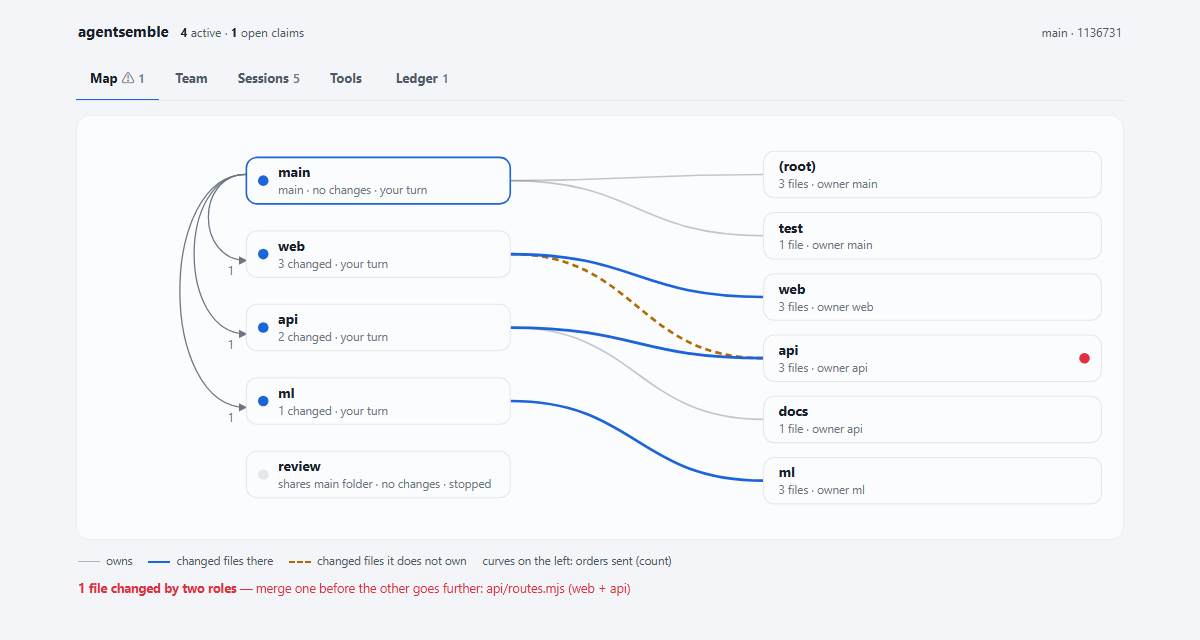
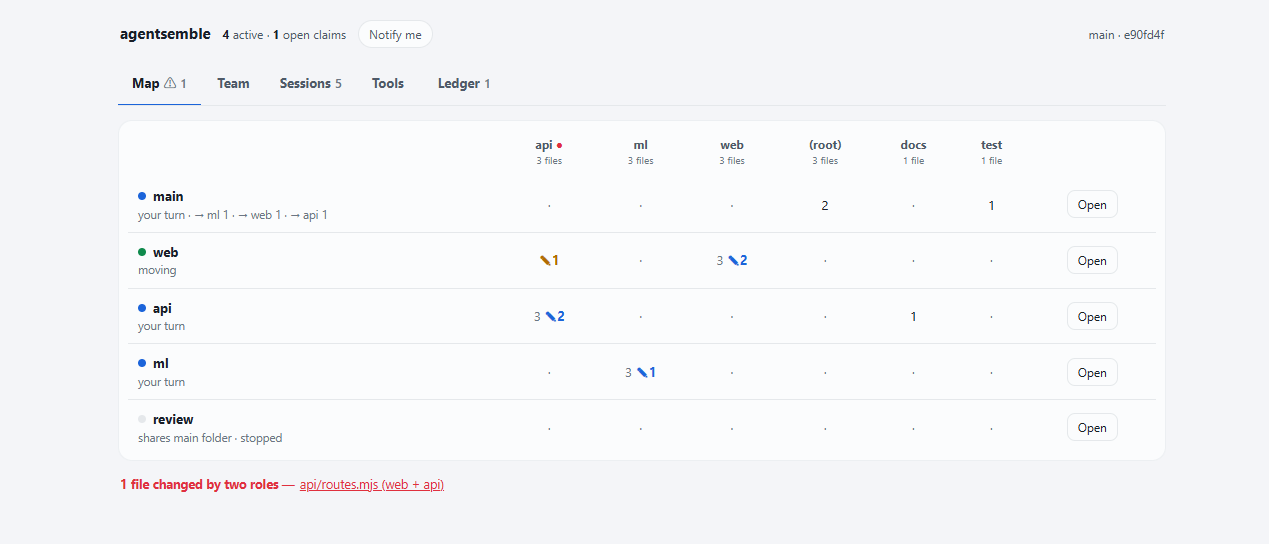
feat: Map is a grid (a row per role, a column per area) instead of tangled lines; Open beside a role brings its terminal forward or reopens it with claude --resume; the board caches itself for 2 s and the page never piles up requests

diff --git a/bin/board.html b/bin/board.html
@@ -156,23 +156,28 @@
   @media (prefers-reduced-motion: no-preference) { .win { transition: box-shadow .15s; } }
 
   /* Map: roles on the left, the repo's areas on the right, live lines between them. */
-  .map { display: block; width: 100%; height: auto; }
-  .map text { fill: var(--text); font-size: 13px; }
-  .map .sub { fill: var(--faint); font-size: 11px; }
-  .map .box { fill: var(--surface); stroke: var(--hair); stroke-width: 1; }
-  .map .box.main { stroke: var(--calm); stroke-width: 1.5; }
-  .map .l-own { fill: none; stroke: var(--faint); stroke-opacity: .4; stroke-width: 1.5; }
-  .map .l-work { fill: none; stroke: var(--calm); stroke-width: 2.5; }
-  .map .l-stray { fill: none; stroke: var(--warn); stroke-width: 2.5; stroke-dasharray: 6 4; }
-  .map .l-talk { fill: none; stroke: var(--faint); stroke-width: 1.2; }
-  .map .dot.moving { fill: var(--good); } .map .dot.busy { fill: var(--warn); }
-  .map .dot.waiting { fill: var(--calm); } .map .dot.stopped, .map .dot.none { fill: var(--hair); }
-  .map .clash { fill: var(--live); } .map .new { fill: var(--me); font-size: 11px; font-weight: 650; }
-  .map .node { cursor: pointer; } .map .node:hover rect, .map .node:focus-visible rect { stroke: var(--calm); stroke-width: 2; } .map .node:focus { outline: none; }
-  .legend { display: flex; flex-wrap: wrap; gap: 6px 16px; font-size: 11.5px; color: var(--sub); margin: 8px 2px 0; }
-  .legend i { display: inline-block; width: 22px; height: 0; vertical-align: middle; margin-right: 6px; border-top: 2.5px solid var(--calm); }
-  .legend i.stray { border-top: 2.5px dashed var(--warn); } .legend i.own { border-top: 1.5px solid var(--faint); opacity: .5; }
+  .grid { width: 100%; border-collapse: collapse; font-size: 13px; font-variant-numeric: tabular-nums; }
+  .grid th, .grid td { padding: 9px 10px; border-bottom: 1px solid var(--hair); text-align: center; white-space: nowrap; }
+  .grid thead th { font-size: 12px; font-weight: 650; color: var(--sub); vertical-align: bottom; }
+  .grid thead th small { display: block; font-weight: 400; color: var(--faint); }
+  .grid th.who { text-align: left; font-weight: 650; color: var(--text); }
+  .grid th.who small { display: block; font-weight: 400; color: var(--faint); font-size: 11.5px; }
+  .grid th.who[data-open] { cursor: pointer; } .grid th.who[data-open]:hover { color: var(--calm); }
+  .grid tr:last-child > * { border-bottom: 0; }
+  .grid td { color: var(--faint); }
+  .grid td.own { color: var(--text); }
+  .grid td.work b { color: var(--calm); }
+  .grid td.stray b { color: var(--warn); }
+  .grid td.work, .grid td.stray { cursor: pointer; }
+  .grid .dot { display: inline-block; width: 8px; height: 8px; border-radius: 50%; margin-right: 7px; background: var(--hair); vertical-align: 1px; }
+  .grid .dot.moving { background: var(--good); } .grid .dot.busy { background: var(--warn); } .grid .dot.waiting { background: var(--calm); }
+  .grid .clash { color: var(--live); }
+  .grid .new { color: var(--me); font-size: 11px; font-weight: 650; margin-left: 4px; }
+  .grid .open { appearance: none; border: 1px solid var(--hair); background: var(--surface); color: var(--text); border-radius: 8px; padding: 4px 10px; font: inherit; font-size: 12px; cursor: pointer; }
+  .grid .open:hover { border-color: var(--calm); }
+  .grid-wrap { overflow-x: auto; }
   .clashes { color: var(--live); font-size: 12.5px; margin: 10px 2px 0; }
+  .toast { position: fixed; bottom: 18px; left: 50%; transform: translateX(-50%); background: var(--text); color: var(--page); padding: 9px 14px; border-radius: 10px; font-size: 13px; z-index: 50; max-width: calc(100% - 32px); }
 </style>
 
 <div class="wrap">
@@ -289,67 +294,38 @@ function card(s, now, isMain) {
     + (s.asked ? `<div class="asked"><i>asked</i>${esc(cut(s.asked, 90))}</div>` : '')
     + (steps ? `<div class="flow">${steps}</div>` : '')
     + `<div class="foot"><span>${esc(s.branch ?? '')}</span>`
-    + `<span class="copy" role="button" tabindex="0" data-copy="${esc(resumeCmd(s))}">copy resume</span></div></button>`;
+    + `<span><span class="copy" role="button" tabindex="0" data-win="${esc(s.id)}">open window</span> <span class="copy" role="button" tabindex="0" data-copy="${esc(resumeCmd(s))}">copy resume</span></span></div></button>`;
 }
 
-// The live architecture. Left: roles (dot = what their window is doing). Right: the repo's
-// top-level areas. Grey = owns it, blue = has changed files there, dashed orange = changed files
-// in an area it does not own. Curves on the far left = orders sent between roles.
+// The live architecture, as a grid: a row per role, a column per top-level area. A number is how
+// many files there the role owns; blue ✎ is files it changed now, orange ✎ is changes to files it
+// does not own. Click a role to read its conversation, "Open" to bring its terminal up.
 const RANK = { moving: 3, busy: 2, waiting: 1, stopped: 0 };
 function mapHtml(d) {
   const m = d.map;
   if (!m || !m.areas.length) return '<div class="card"><div class="empty">No tracked files yet.</div></div>';
   const phase = name => d.sessions.filter(s => s.role === name)
     .reduce((best, s) => (RANK[s.phase] ?? -1) > (RANK[best] ?? -1) ? s.phase : best, 'none');
-  const R = m.roles, row = 58, top = 16;
-  const ri0 = Object.fromEntries(R.map((r, i) => [r.name, i]));
-  // Put each area across from its owner so lines run straight; unowned areas go last.
-  const firstOwner = a => Math.min(...a.owners.map(o => ri0[o] ?? 99), 99);
-  const A = [...m.areas].sort((a, b) => firstOwner(a) - firstOwner(b));
-  const H = Math.max(R.length, A.length) * row + top * 2;
-  const yR = i => top + (i + 0.5) * (H - top * 2) / R.length;
-  const yA = i => top + (i + 0.5) * (H - top * 2) / A.length;
-  const RX = 150, RW = 250, AX = 640, AW = 320;
-  const ri = Object.fromEntries(R.map((r, i) => [r.name, i]));
-  const curve = (y1, y2) => `M${RX + RW},${y1} C${(RX + RW + AX) / 2},${y1} ${(RX + RW + AX) / 2},${y2} ${AX},${y2}`;
-  let lines = '', talk = '', boxes = '';
-  A.forEach((a, j) => {
-    for (const o of a.owners) if (o in ri) lines += `<path class="l-own" d="${curve(yR(ri[o]), yA(j))}"/>`;
-  });
-  R.forEach((r, i) => r.areas.forEach(name => {
-    const j = A.findIndex(a => a.name === name);
-    if (j >= 0) lines += `<path class="${r.stray.includes(name) ? 'l-stray' : 'l-work'}" d="${curve(yR(i), yA(j))}"><title>${esc(r.name)} changed files in ${esc(name)}${r.stray.includes(name) ? ' it does not own: ' + esc((r.strayFiles ?? []).filter(f => (f.includes('/') ? f.slice(0, f.indexOf('/')) : '(root)') === name).join(', ')) : ''}</title></path>`;
-  }));
-  for (const e of m.edges) {
-    if (!(e.from in ri) || !(e.to in ri)) continue;
-    const y1 = yR(ri[e.from]), y2 = yR(ri[e.to]), bend = RX - 30 - Math.abs(ri[e.from] - ri[e.to]) * 18;
-    talk += `<path class="l-talk" marker-end="url(#arr)" d="M${RX},${y1 - 6} C${bend},${y1 - 6} ${bend},${y2 + 6} ${RX},${y2 + 6}"><title>${esc(e.from)} → ${esc(e.to)}: ${e.n} order${e.n > 1 ? 's' : ''}</title></path>`
-      + `<text class="sub" x="${RX - 12}" y="${y2 + 20}" text-anchor="end">${e.n}</text>`;
-  }
-  R.forEach((r, i) => {
-    const y = yR(i), p = phase(r.name);
-    // Click a role to open its latest window's conversation in the side drawer.
-    const last = d.sessions.filter(s => s.role === r.name).sort((a, b) => a.idleMs - b.idleMs)[0];
-    boxes += `<g${last ? ` class="node" data-open="${esc(last.id)}" role="button" tabindex="0" aria-label="Open ${esc(r.name)} conversation"` : ''}><rect class="box${r.isMain ? ' main' : ''}" x="${RX}" y="${y - 22}" width="${RW}" height="44" rx="10"/>`
-      + `<circle class="dot ${esc(p)}" cx="${RX + 16}" cy="${y}" r="5"><title>${esc(PHASE[p] ?? 'no window')}</title></circle>`
-      + `<text x="${RX + 30}" y="${y - 3}" font-weight="650">${esc(r.name)}${d.sessions.some(s => s.role === r.name && unread(s)) ? ' <tspan class="new">● new</tspan>' : ''}</text>`
-      + `<text class="sub" x="${RX + 30}" y="${y + 13}">${esc([r.isMain ? 'main' : r.shared ? 'shares main folder' : '', r.touched ? r.touched + ' changed' : 'no changes', PHASE[p] ?? ''].filter(Boolean).join(' · '))}</text></g>`;
-  });
-  A.forEach((a, j) => {
-    const y = yA(j), clash = m.clashes.some(c => c.file.startsWith(a.name + '/') || (a.name === '(root)' && !c.file.includes('/')));
-    boxes += `<g><rect class="box" x="${AX}" y="${y - 22}" width="${AW}" height="44" rx="10"/>`
-      + (clash ? `<circle class="clash" cx="${AX + AW - 16}" cy="${y}" r="5"><title>two roles changed the same file here</title></circle>` : '')
-      + `<text x="${AX + 14}" y="${y - 3}" font-weight="650">${esc(cut(a.name, 30))}</text>`
-      + `<text class="sub" x="${AX + 14}" y="${y + 13}">${a.files} file${a.files === 1 ? '' : 's'}${a.owners.length ? ' · owner ' + esc(a.owners.map(o => a.owners.length > 1 && a.own?.[o] ? `${o} ${a.own[o]}` : o).join(', ')) : ' · no owner'}</text></g>`;
-  });
-  const svg = `<svg class="map" viewBox="0 0 ${AX + AW + 10} ${H}" role="img" aria-label="Roles, the areas of the repo they own and change, and orders between them">`
-    + `<defs><marker id="arr" viewBox="0 0 8 8" refX="7" refY="4" markerWidth="7" markerHeight="7" orient="auto-start-reverse"><path d="M0,0 L8,4 L0,8 z" fill="currentColor" style="color:var(--faint)"/></marker></defs>`
-    + lines + talk + boxes + '</svg>';
-  return `<div class="card" style="padding:12px">${svg}</div>`
-    + '<div class="legend"><span><i class="own"></i>owns</span><span><i></i>changed files there</span><span><i class="stray"></i>changed files it does not own</span><span>curves on the left: orders sent (count)</span></div>'
-    + (m.clashes.length ? `<div class="clashes"><b>${m.clashes.length} file${m.clashes.length > 1 ? 's' : ''} changed by two roles</b> — merge one before the other goes further: `
-      + m.clashes.map((c, i) => `<button type="button" data-clash="${i}">${esc(c.file)} (${esc(c.who.join(' + '))})</button>`).join(' · ') + ' — click to compare</div>' : '')
-    + R.filter(r => r.strayFiles?.length).map(r => `<div class="clashes"><b>${esc(r.name)} changed files it does not own</b> — ${esc(r.strayFiles.slice(0, 8).join(', '))}${r.strayFiles.length > 8 ? ` +${r.strayFiles.length - 8}` : ''}. Hand them to their owner or add them to its <code>owns</code>.</div>`).join('');
+  const A = m.areas;
+  const clashIn = a => m.clashes.some(c => c.file.startsWith(a + '/') || (a === '(root)' && !c.file.includes('/')));
+  const head = '<tr><th></th>' + A.map(a => `<th>${esc(cut(a.name, 18))}${clashIn(a.name) ? ' <span class="clash" title="two roles changed the same file here">●</span>' : ''}<small>${a.files} file${a.files === 1 ? "" : "s"}</small></th>`).join('') + '<th></th></tr>';
+  const rows = m.roles.map(r => {
+    const p = phase(r.name);
+    const last = d.sessions.filter(s => s.role === r.name).sort((x, y) => x.idleMs - y.idleMs)[0];
+    const orders = m.edges.filter(e => e.from === r.name).map(e => `→ ${e.to} ${e.n}`).join(' · ');
+    const sub = [r.shared ? 'shares main folder' : '', PHASE[p] ?? 'no window', orders].filter(Boolean).join(' · ');
+    const cells = A.map(a => {
+      const own = a.own?.[r.name] ?? 0, ch = r.changed?.[a.name] ?? 0, stray = r.stray.includes(a.name);
+      if (ch) return `<td class="${stray ? 'stray' : 'work'}" data-diff="${esc(r.name)}" title="${esc(r.name)} changed ${ch} file${ch > 1 ? 's' : ''} here${stray ? ' it does not own' : ''} — click to see">${own || ''} <b>✎${ch}</b></td>`;
+      return own ? `<td class="own">${own}</td>` : '<td>·</td>';
+    }).join('');
+    return `<tr><th class="who"${last ? ` data-open="${esc(last.id)}" role="button" tabindex="0" title="Read its conversation"` : ''}><span class="dot ${esc(p)}"></span>${esc(r.name)}`
+      + `${d.sessions.some(s => s.role === r.name && unread(s)) ? '<span class="new">● new</span>' : ''}<small>${esc(sub)}</small></th>${cells}`
+      + `<td><button type="button" class="open" data-win="${esc(last?.id ?? '')}" data-role="${esc(r.name)}" title="${last ? 'Bring its terminal to the front, or reopen it' : 'Open a new terminal for this role'}">${last ? 'Open' : 'Start'}</button></td></tr>`;
+  }).join('');
+  return `<div class="card grid-wrap" style="padding:6px 10px"><table class="grid"><thead>${head}</thead><tbody>${rows}</tbody></table></div>`
+    + (m.clashes.length ? `<div class="clashes"><b>${m.clashes.length} file${m.clashes.length > 1 ? 's' : ''} changed by two roles</b> — `
+      + m.clashes.map((c, i) => `<button type="button" data-clash="${i}">${esc(c.file)} (${esc(c.who.join(' + '))})</button>`).join(' · ') + '</div>' : '');
 }
 
 function teamHtml(d, now) {
@@ -420,7 +396,13 @@ function paint(id, html) { if (PREV[id] === html) return; PREV[id] = html; $(id)
 let FAILS = 0;
 
 let LAST = null;
+let BUSY = false;
 async function tick() {
+  if (BUSY) return;   // a slow board must not pile up requests
+  BUSY = true;
+  try { await tickOnce(); } finally { BUSY = false; }
+}
+async function tickOnce() {
   let d;
   try {
     const r = await fetch('/api/board', { cache: 'no-store' });
@@ -464,6 +446,16 @@ document.addEventListener('click', e => {
       () => { c.outerHTML = `<code class="cmd">${esc(cmd)}</code>`; });
     return;
   }
+  const o = e.target.closest('[data-win]');
+  if (o) { e.stopPropagation(); return openWindow(o.dataset.win, o.dataset.role); }
+  const df = e.target.closest('[data-diff]');
+  if (df) {
+    const last = LAST?.sessions.filter(x => x.role === df.dataset.diff).sort((x, y) => x.idleMs - y.idleMs)[0];
+    if (last) return openDrawer(last.id).then(() => showChanges(df.dataset.diff));
+    OPENER = document.activeElement; OPEN_ID = null; DROLE = df.dataset.diff;
+    $('dname').textContent = DROLE; $('dtabs').hidden = false; $('drawer').hidden = false; $('dx').focus();
+    return showChanges(DROLE);
+  }
   const k = e.target.closest('[data-clash]');
   if (k) return openClash(Number(k.dataset.clash));
   const w = e.target.closest('.win') ?? e.target.closest('[data-open]');
@@ -471,9 +463,26 @@ document.addEventListener('click', e => {
 });
 document.addEventListener('keydown', e => {
   if (e.key === 'Escape' && !$('drawer').hidden) closeDrawer();
-  if ((e.key === 'Enter' || e.key === ' ') && e.target.matches?.('[data-copy]')) { e.preventDefault(); e.target.click(); }
+  if ((e.key === 'Enter' || e.key === ' ') && e.target.matches?.('[data-copy],[data-win]')) { e.preventDefault(); e.target.click(); }
   if ((e.key === 'Enter' || e.key === ' ') && e.target.matches?.('[data-open]')) { e.preventDefault(); openDrawer(e.target.dataset.open); }
 });
+
+// Open a role's terminal on this PC: the board brings a live window forward or reopens a closed one.
+const SAY = { ok: 'Brought its window to the front', opened: 'Opened a new terminal', notfound: 'Window not found — is it still open?',
+  unnamed: 'That window has no name — run /rename <role> in it once', noname: 'That window has no name — run /rename <role> in it once',
+  unsupported: 'Opening windows needs the board running on Windows itself, not in a container — copy the resume command instead',
+  failed: 'Could not open it' };
+function toast(t) {
+  const el = document.createElement('div'); el.className = 'toast'; el.setAttribute('role', 'status'); el.textContent = t;
+  document.body.append(el); setTimeout(() => el.remove(), 4000);
+}
+async function openWindow(id, role) {
+  const q = id ? 'id=' + encodeURIComponent(id) : 'role=' + encodeURIComponent(role ?? '');
+  try {
+    const r = await fetch('/api/open?' + q, { method: 'POST' });
+    toast(r.ok ? SAY[(await r.json()).result] ?? 'Done' : 'Could not open it (' + r.status + ')');
+  } catch { toast('Board not reachable'); }
+}
 
 // Drawer: one session's conversation.
 let OPEN_ID = null, START = 0, OPENER = null;

diff --git a/README.ko.md b/README.ko.md
@@ -4,13 +4,14 @@
 
 [English](README.md)
 
-![Map 탭: 왼쪽은 역할, 오른쪽은 저장소의 영역, 그 사이를 잇는 실시간 선](docs/board-map.png)
+![Map 탭: 줄은 역할, 칸은 저장소의 영역 — 누가 무엇을 맡았고 지금 무엇을 고치는지](docs/board-map.png)
 
 판은 **팀이 일하는 동안의** 프로젝트 구조를 그립니다:
 
 - 저장소의 **어느 부분을 누가 맡았는지**, 창마다 **실제로 무엇을 바꿨는지**(자기 가지 + 아직 커밋 안 한 것)
-- **맡지 않은 영역을 건드린 것**(주황 점선)과 **두 창이 같은 파일을 바꾼 것**(빨강) — 합치다 싸우기 전에
+- **맡지 않은 파일을 건드린 것**(주황 ✎)과 **두 창이 같은 파일을 바꾼 것**(빨강 ●) — 합치다 싸우기 전에
 - **누가 누구에게 지시했는지**, 창마다 움직이는 중인지 · 내 차례인지 · 멈췄는지
+- 역할 옆 **Open** 을 누르면 그 터미널 창이 앞으로 옵니다 — 닫혀 있으면 `claude --resume` 으로 다시 엽니다(Windows)
 
 전부 이 PC 의 git 과 Claude Code 기록에서 읽습니다. 밖으로 나가는 것은 없습니다.
 

diff --git a/README.md b/README.md
@@ -4,13 +4,14 @@
 
 [한국어](README.ko.md)
 
-![The Map tab: roles on the left, the repo's areas on the right, live lines between them](docs/board-map.png)
+![The Map tab: a row per role, a column per area of the repo — what each owns and what it is changing now](docs/board-map.png)
 
 The board draws your project's architecture *as the team is working on it*:
 
 - **who owns which part** of the repo, and **what each session has actually changed** (its branch plus uncommitted work)
-- **work outside a role's own area** (dashed orange) and **files two sessions both changed** (red) — before they turn into a merge fight
+- **work outside a role's own files** (orange ✎) and **files two sessions both changed** (red ●) — before they turn into a merge fight
 - **who sent orders to whom**, and whether each window is moving, waiting for you, or stopped
+- **Open** beside a role brings its terminal to the front — or reopens it with `claude --resume` if it was closed (Windows)
 
 Everything is read from git and Claude Code's own logs on your machine. Nothing leaves localhost.
 
